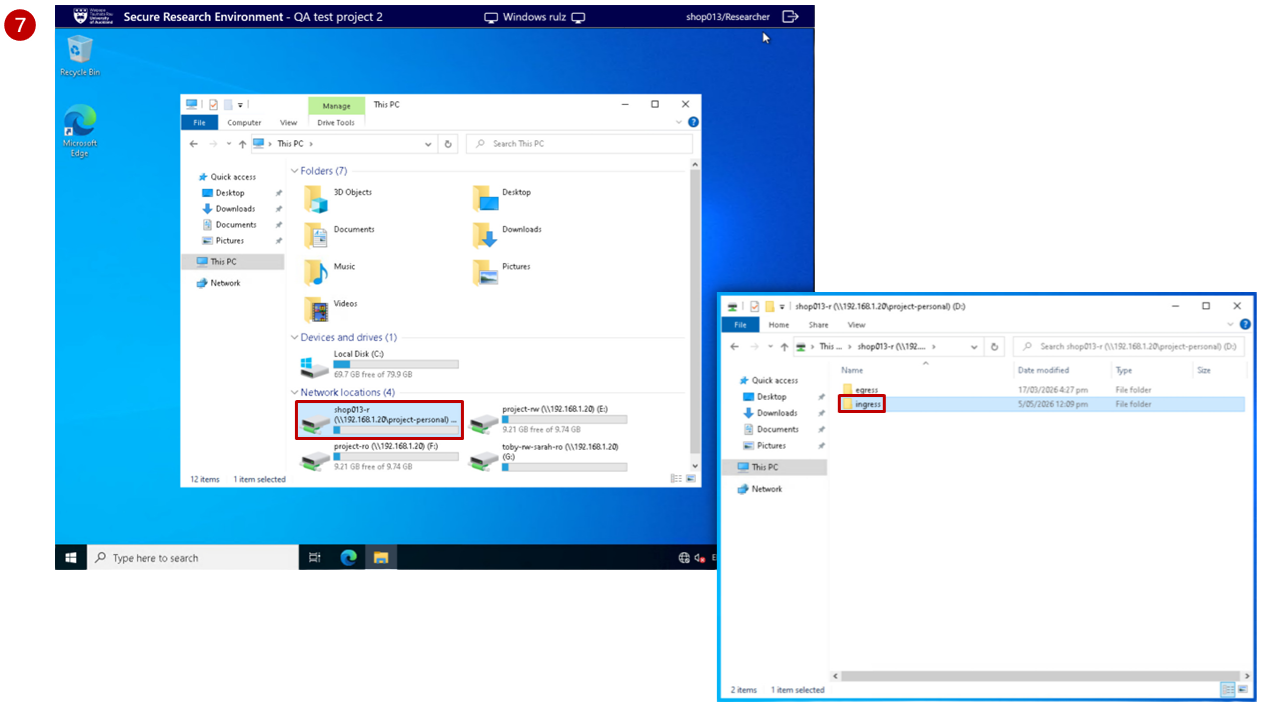
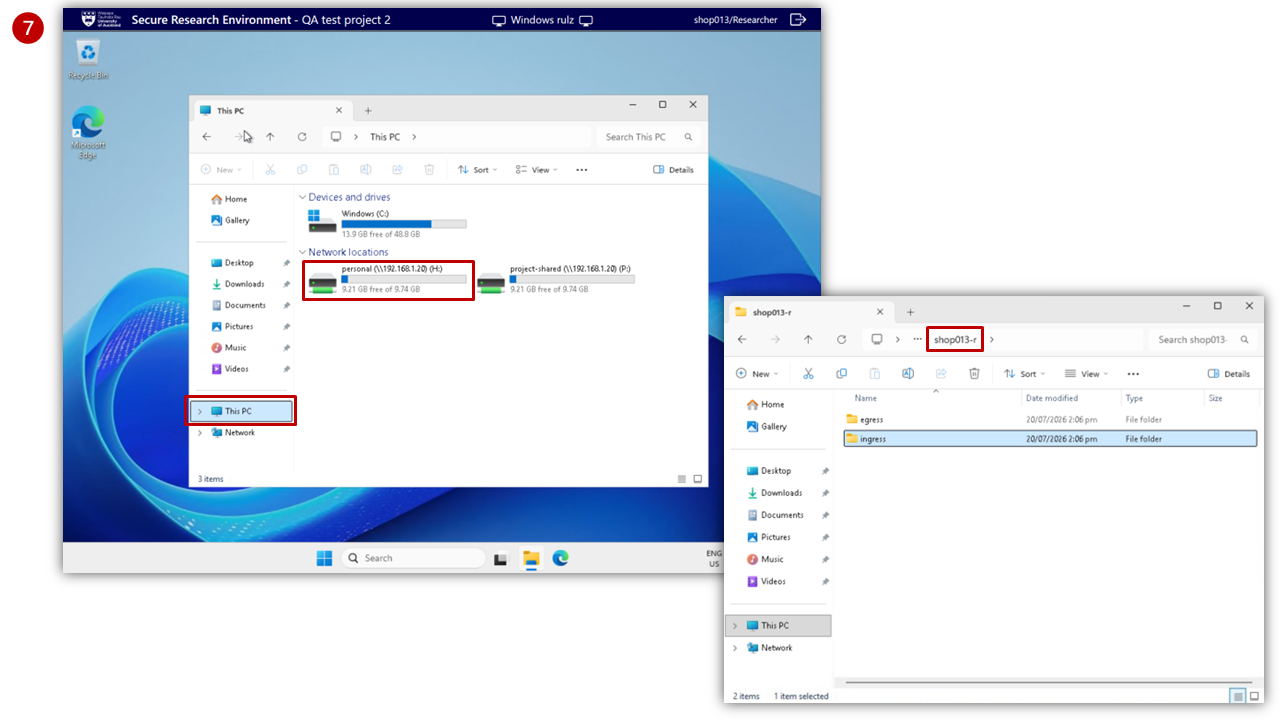
Update storage locations - researcher tasks

diff --git a/docs/Data_Storage.md b/docs/Data_Storage.md
@@ -1,8 +1,10 @@
 # Data Storage
 
-Each SRE project includes a set of default storage folders to support secure data management, collaboration and controlled data transfer (ingress and egress). Additional storage folders and/or customised folder names can be configured on request during project onboarding.
+Each SRE project includes a set of default storage locations to support secure data management, collaboration and controlled data transfer (ingress and egress). Additional folders and customised folder structures can be configured during project onboarding.
 
-An overview of the default storage folders are described in the table below.
+Storage is divided into <code>personal</code> and <code>project-shared</code> areas. Personal folders are intended for individual use, while project-shared folders enable collaboration across the project team.
+
+The table below provides an overview of the default storage folders available within each project.
 
 <table class="role-table">
 <thead>
@@ -16,20 +18,6 @@ An overview of the default storage folders are described in the table below.
 </thead>
 <tbody>
 <tr>
-    <th><code>project-rw</code></th>
-    <td>Read/Write</td>
-    <td>All project users</td>
-    <td>Shared working directory for collaboration</td>
-    <td>Files can be edited by all users</td>
-</tr>
-<tr>
-    <th><code>project-ro</code></th>
-    <td>Read-only</td>
-    <td>All project users (Data Custodian has full access)</td>
-    <td>Stores raw or source data</td>
-    <td>User must copy files out before editing</td>
-</tr>
-<tr>
     <th>project-personal (<code>[username]-r</code>)</th>
     <td>Read/Write (own folder)</td>
     <td>Individual researcher (Data Custodian has full access)</td>
@@ -42,6 +30,20 @@ An overview of the default storage folders are described in the table below.
     <td>Data Custodians</td>
     <td>Used for direct data ingress/egress and data management</td>
     <td>Contains <code>ingress</code> and <code>egress</code> subfolders</td>
+</tr>
+<tr>
+    <th><code>project-rw</code></th>
+    <td>Read/Write</td>
+    <td>All project users</td>
+    <td>Shared working directory for collaboration</td>
+    <td>Files can be edited by all users</td>
+</tr>
+<tr>
+    <th><code>project-ro</code></th>
+    <td>Read-only</td>
+    <td>All project users (Data Custodian has full access)</td>
+    <td>Stores raw or source data</td>
+    <td>User must copy files out before editing</td>
 </tr>
 <tr>
     <th><code>ingress-approver</code></th>

diff --git a/docs/As_a_researcher.md b/docs/As_a_researcher.md
@@ -57,19 +57,21 @@ As a researcher, use the **Ingress Request** to import files from your computer 
   <li>
     If the Ingress Request is approved, you will receive an email notification, and the request State in <strong>Your Ingress request history</strong> will change from <em>pending_approval</em> to <em>completed</em>.
   </li>
-  
-  <li>
-    The files will be moved into a timestamped folder within the <ecode>ingress</code> sub-folder of your personal folder (<code>username-r</code>).
-    <div class="callout">
-      Keep the file in your personal folder or copy/move it into the <code>project-rw</code> folder to share and collaborate with the rest of your team.
-    </div>
-  </li>
 </ol>
-  
+
 <figure markdown>
  ![researcher_ingress_2](img/researcher_ingress_2.png)
   <figcaption> </figcaption>
 </figure>
+
+<ol start="7">
+  <li>
+    The files will be moved into a timestamped folder within the <ecode>ingress</code> sub-folder of your personal folder (<code>username-r</code>). Access this folder from within the projects <code>personal</code> storage area.
+    <div class="callout">
+      Keep the file in your personal folder or copy/move it into the <code>project-rw</code> folder to share and collaborate with the rest of your team. You can access the <code>project-rw</code> folder within the <code>project-shared</code> storage area.
+    </div>
+  </li>
+</ol>
   
 <figure markdown>
   ![researcher_ingress_3](img/researcher_ingress_3.png)
@@ -101,6 +103,9 @@ Use a virtual desktop to access and work with project data on a secure VM.
       </li>
       <li>
         <strong>Linux VM:</strong> Click on the File Manager from the taskbar at the bottom of the virtual desktop. Select <code>project_data</code> to display available folders.
+        <div class="callout">
+          Personal folders, accessed within the <code>personal</code> storage area, are intended for individual use, while folders within the <code>project-shared</code> storage area enable collaboration across the project team.
+        </div>
       </li>
     </ul>
   </li>
